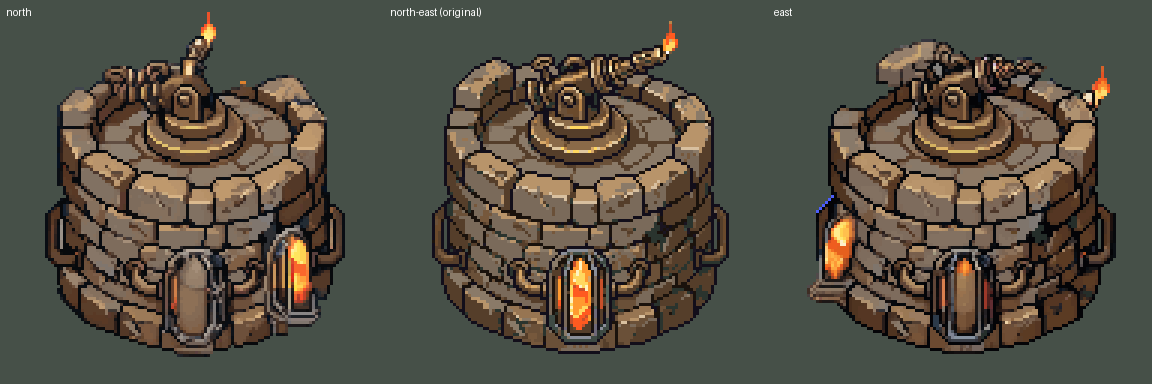
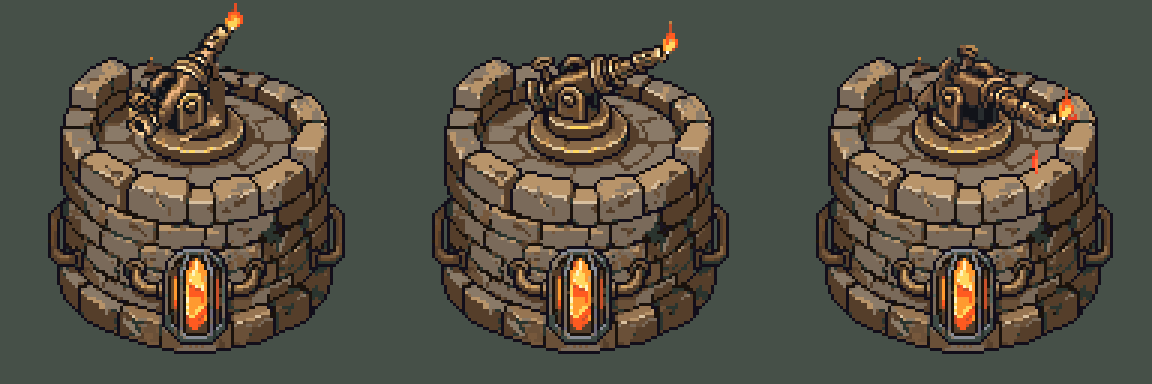
The defence: one tower, the head rotated on its own
Claude-Session: https://claude.ai/code/session_01JAzvjmRJ1wdD5eYGXNht1d

diff --git a/tools/segments/01-opening/segment.js b/tools/segments/01-opening/segment.js
@@ -86,9 +86,9 @@ rules:[
  ['Four wizards fit.',' A Fire ring is 3 units in radius, so a fight wants about 6 units per player, and a room at least 24 by 18.'],
  ['Walks vary, and some are long.',' Sometimes you walk a while before anything happens, because that makes the world feel real. You cross a screen in about 7 seconds.'],
 ],
-buy:{id:'job-defence',name:`The defence`,cost:47,costLabel:'47 generations so far',tool:'Candidate 3 chosen. Facings: 1 generation each, through the Rotate endpoint. Next: keep one tower and swap only the head, then a burnt-out version, as a free local edit first.',
+buy:{id:'job-defence',name:`The defence`,cost:49,costLabel:'49 generations so far',tool:'Candidate 3 chosen. One tower, with only the head rotated through the Rotate endpoint, 1 generation per facing. Next: clean up the east facing, then a burnt-out version, as a free local edit first.',
  why:`A flamethrower on a tower. It faces north-east and swings about 45 degrees either way, so only the head turns, on its collar, and the tower stays one image.`,
- images:[['img/defence-flame-candidates.png','Four flamethrower towers with a brass head on a central collar and an orange crystal set into the stone','The four candidates. You chose 3.'],['img/defence-flame-facings.png','Candidate 3 facing north, north-east and east, with the tower shifting slightly between them','The three facings. The tower and crystal drift a little between them, so only the head will be used from the side views.']],
+ images:[['img/defence-flame-candidates.png','Four flamethrower towers with a brass head on a central collar and an orange crystal set into the stone','The four candidates. You chose 3.'],['img/defence-flame-facings.png','Candidate 3 facing north, north-east and east on one identical tower','The three facings, sharing one tower. The east facing still has a stray scrap of the old flame to clean up.']],
  lines:['A fixed flamethrower defence on a squat round stone tower, facing up and to the right. A compact brass flame-projector head with a slim nozzle flaring to a burner tip and a small pilot flame, sitting on a round swivel collar at the centre of the tower top. Nothing connects the head to the tower except the collar. A glowing orange crystal in a cage is built into the side of the tower below the collar, with short brass pipes running into the stone, not up to the head. Medieval fantasy engineering, not a cannon, no barrel. Hi-bit pixel art, dark outline, seen from above at an isometric angle.']},
 art:[
  ['Hall','Academy furnishings and school wall kit (bought); lectern, benches, bookshelves, banners, clock (owned)','Other students: wizard rig recoloured'],
